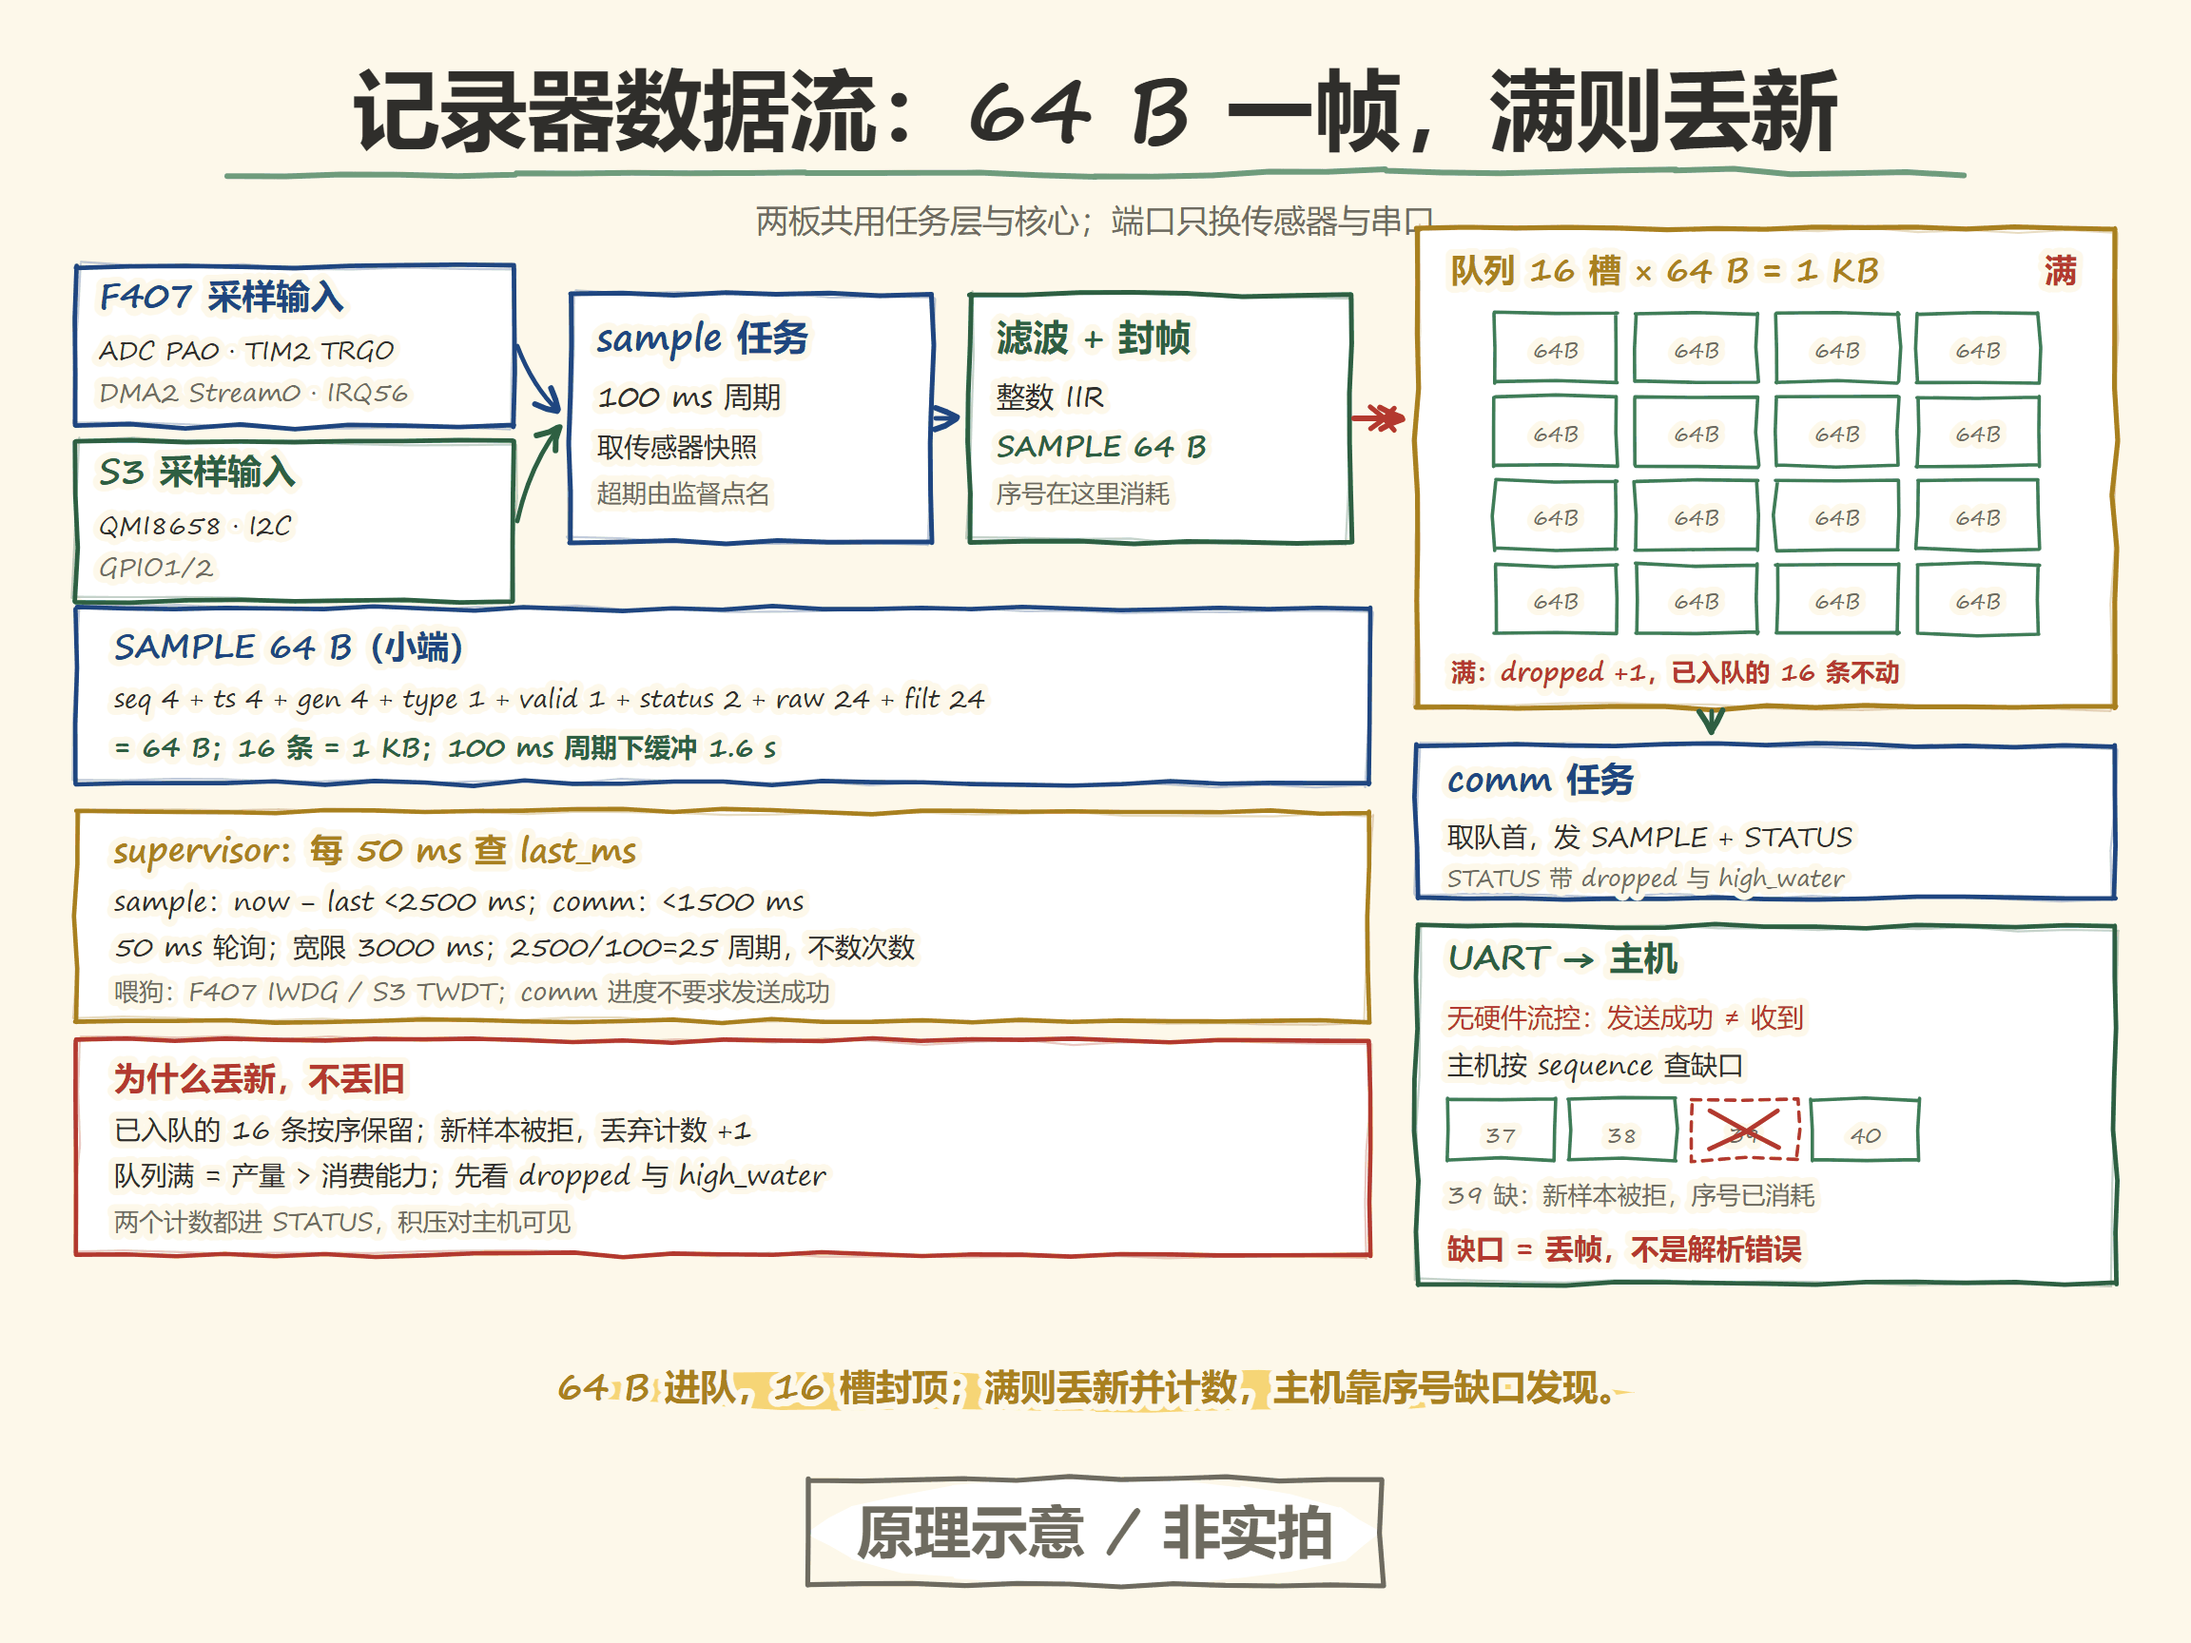
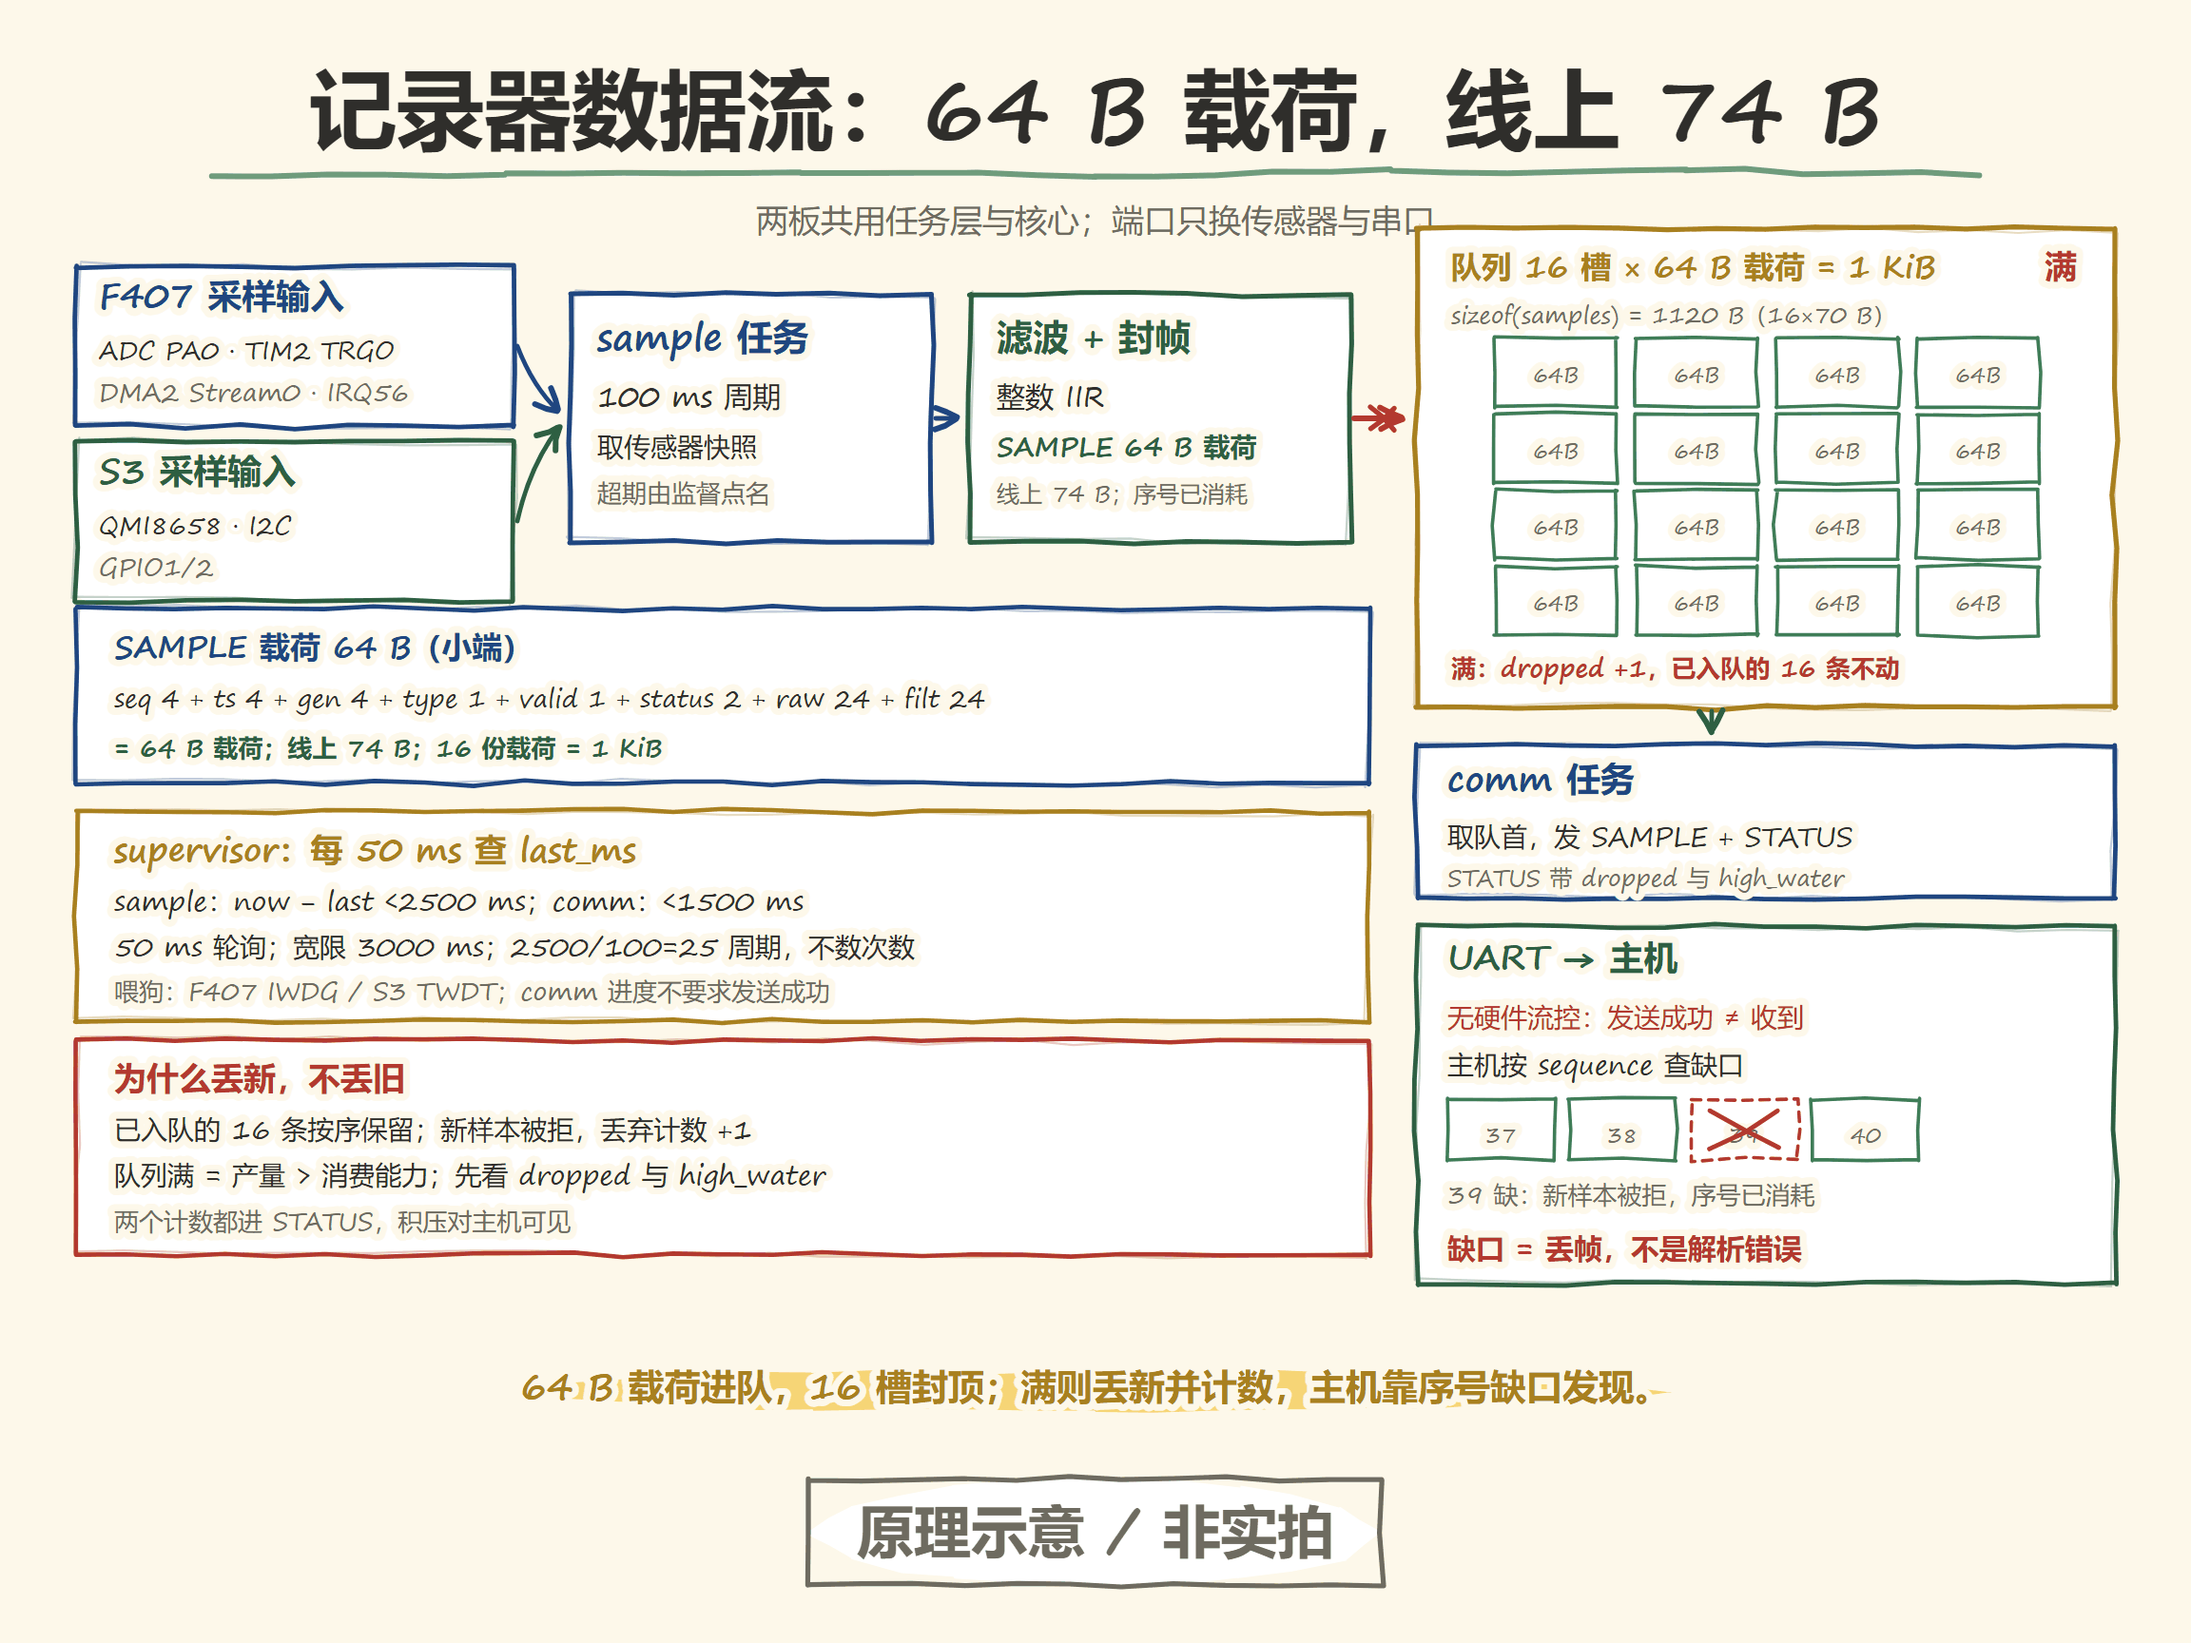
docs: separate SAMPLE payload from wire and queue RAM
- ch41: 64 B is only the payload; protocol_encode() adds a 6 B header
  and 2 B CRC, then COBS plus delimiter, so a SAMPLE occupies 74 B on
  the wire
- queue: 16 x 64 B payload = 1 KiB, but logger.h stores frame_t[16];
  ARM sizeof(frame_t)=70 and sizeof(samples)=1120 B, which is the RAM
  budget, not 1 KiB
- plate, architecture diagram and animation caption use the same split

diff --git a/tools/handraw_track/fig_arch_logger.py b/tools/handraw_track/fig_arch_logger.py
@@ -1,8 +1,11 @@
 # -*- coding: utf-8 -*-
 """Logger data-flow plate (ch41).
 
-Facts pinned to the chapter and common core: SAMPLE is 64 B little-endian;
-the queue is 16 x 64 B = 1 KB, which buffers 1.6 s at the 100 ms period.
+Facts pinned to the chapter and common core: the SAMPLE payload is 64 B
+little-endian, while one wire frame is 74 B (6 B header + 2 B CRC + COBS
+and delimiter). The queue holds 16 frames: 1 KiB of payload, but the
+actual ``samples`` array is 16 * sizeof(frame_t) = 1120 B on ARM, which
+is the RAM budget; 16 slots buffer 1.6 s at the 100 ms period.
 When full, the new sample is rejected (``dropped`` grows) while the 16
 already queued samples stay; the sequence number is consumed before the
 capacity check, so the host sees a sequence gap. The supervisor compares
@@ -35,7 +38,7 @@ def _slot(f, x, y, w, h, label, color=GREEN, fill=WHITE, dash=None):
 
 
 def logger_flow():
-    f = Fig("arch-logger-flow", "记录器数据流：64 B 一帧，满则丢新")
+    f = Fig("arch-logger-flow", "记录器数据流：64 B 载荷，线上 74 B")
     f.text(576, 122, "两板共用任务层与核心；端口只换传感器与串口",
            size=17, color=MUTED, anchor="middle")
 
@@ -56,19 +59,21 @@ def logger_flow():
     f.rect(510, 155, 200, 130, color=GREEN_D, fill=WHITE, sw=2.5)
     f.text(524, 184, "滤波 + 封帧", size=19, color=GREEN_D, weight="bold")
     f.text(524, 214, "整数 IIR", size=15, color=INK)
-    f.text(524, 240, "SAMPLE 64 B", size=15, color=GREEN_D, weight="bold")
-    f.text(524, 264, "序号在这里消耗", size=13, color=MUTED)
+    f.text(524, 240, "SAMPLE 64 B 载荷", size=14, color=GREEN_D, weight="bold")
+    f.text(524, 264, "线上 74 B；序号已消耗", size=12, color=MUTED)
     f.arrow(492, 220, 508, 220, color=BLUE_D, sw=2.4, bend=0.0)
 
     # -- queue ----------------------------------------------------------
     f.rect(745, 120, 367, 252, color=AMBER_STROKE, fill=WHITE, sw=2.6)
-    f.text(763, 148, "队列 16 槽 × 64 B = 1 KB", size=17, color=AMBER_STROKE,
-           weight="bold")
-    f.text(1092, 148, "满", size=17, color=RED, anchor="end", weight="bold")
+    f.text(763, 146, "队列 16 槽 × 64 B 载荷 = 1 KiB", size=16,
+           color=AMBER_STROKE, weight="bold")
+    f.text(763, 170, "sizeof(samples) = 1120 B（16×70 B）", size=12,
+           color=MUTED)
+    f.text(1092, 146, "满", size=17, color=RED, anchor="end", weight="bold")
     for row in range(4):
         for col in range(4):
-            _slot(f, 786 + col * 74, 165 + row * 44, 64, 36, "64B")
-    f.text(763, 358, "满：dropped +1，已入队的 16 条不动", size=13, color=RED,
+            _slot(f, 786 + col * 74, 178 + row * 40, 64, 36, "64B")
+    f.text(763, 356, "满：dropped +1，已入队的 16 条不动", size=13, color=RED,
            weight="bold")
 
     # full queue rejects the new sample; consumer still drains the head
@@ -101,11 +106,12 @@ def logger_flow():
 
     # -- byte account ---------------------------------------------------
     f.rect(40, 320, 680, 92, color=BLUE_D, fill=WHITE, sw=2.3)
-    f.text(60, 346, "SAMPLE 64 B（小端）", size=17, color=BLUE_D, weight="bold")
+    f.text(60, 346, "SAMPLE 载荷 64 B（小端）", size=16, color=BLUE_D,
+           weight="bold")
     f.text(60, 372,
            "seq 4 + ts 4 + gen 4 + type 1 + valid 1 + status 2 + raw 24 + filt 24",
            size=13, color=INK)
-    f.text(60, 398, "= 64 B；16 条 = 1 KB；100 ms 周期下缓冲 1.6 s", size=14,
+    f.text(60, 398, "= 64 B 载荷；线上 74 B；16 份载荷 = 1 KiB", size=13,
            color=GREEN_D, weight="bold")
 
     # -- supervisor -----------------------------------------------------
@@ -130,7 +136,7 @@ def logger_flow():
            color=MUTED)
 
     f.htext(576, 736,
-            "64 B 进队，16 槽封顶；满则丢新并计数，主机靠序号缺口发现。",
+            "64 B 载荷进队，16 槽封顶；满则丢新并计数，主机靠序号缺口发现。",
             size=19, color=AMBER_STROKE, anchor="middle", weight="bold",
             hl=True, hl_fill=AMBER_FILL)
     return f
